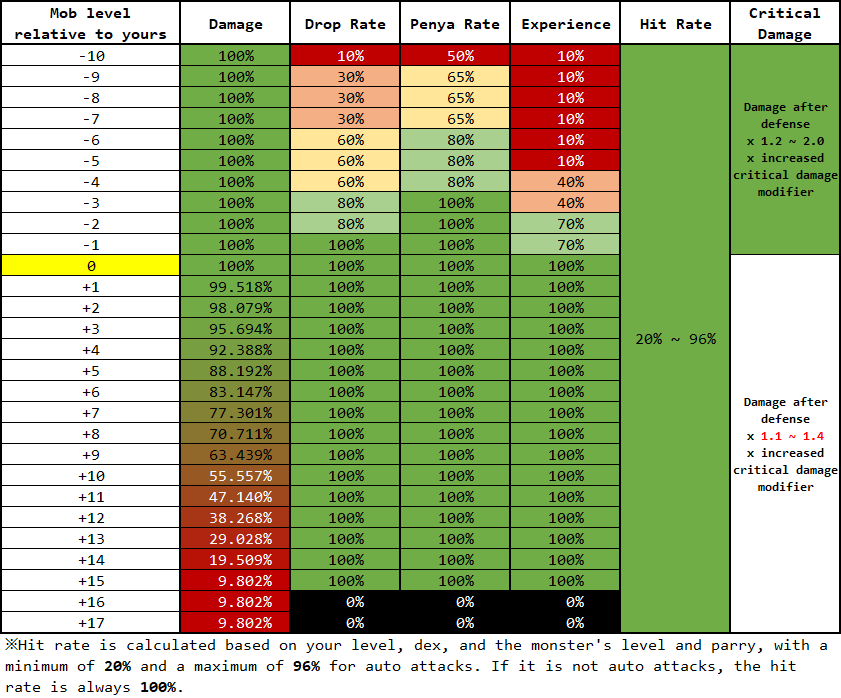
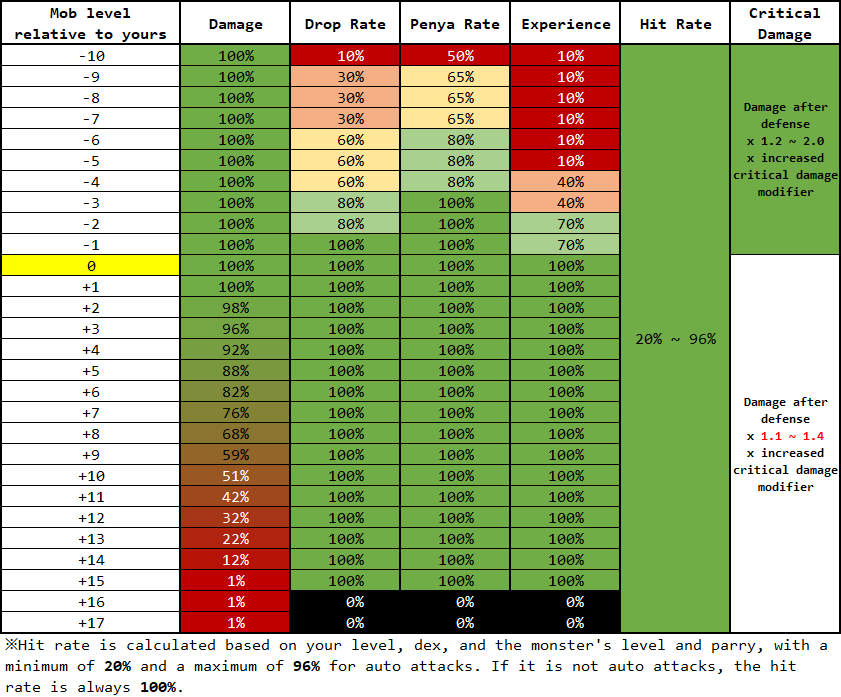
feat: update level gap

diff --git a/README.md b/README.md
@@ -635,11 +635,14 @@
 
 <div align="center"><img src="./system/level_gap.png" alt="level_gap.png"/></div>
 
-> source:[@navi2765 @Navi (discord flyff universe)](https://discord.com/channels/778915844070834186/1079288438056034314/1250528036374184078 "@navi2765 @Navi (discord flyff universe)")
+> source:[@navi2765 @Navi (discord flyff universe)](https://discord.com/channels/778915844070834186/1333187382941585468/1333187382941585468 "@navi2765 @Navi (discord flyff universe)")
 
 #### ⚔ damage ratio
 
-<div align="center"><img src="./system/damage_ratio.jpg" alt="damage_ratio.jpg"/></div>
+<div align="center">
+
+**This graph may be incorrect, please refer to [@navi2765 @Navi (discord flyff universe)](https://discord.com/channels/778915844070834186/1000058902576119878/1333776761758023704 "@navi2765 @Navi (discord flyff universe)").**
+<img src="./system/damage_ratio.jpg" alt="damage_ratio.jpg"/></div>
 
 > source:[@ppap#5954 @ppap (discord flyff universe)](https://discord.com/channels/778915844070834186/1000058902576119878/1079823818765385799 "@ppap#5954 @ppap (discord flyff universe)")
 
